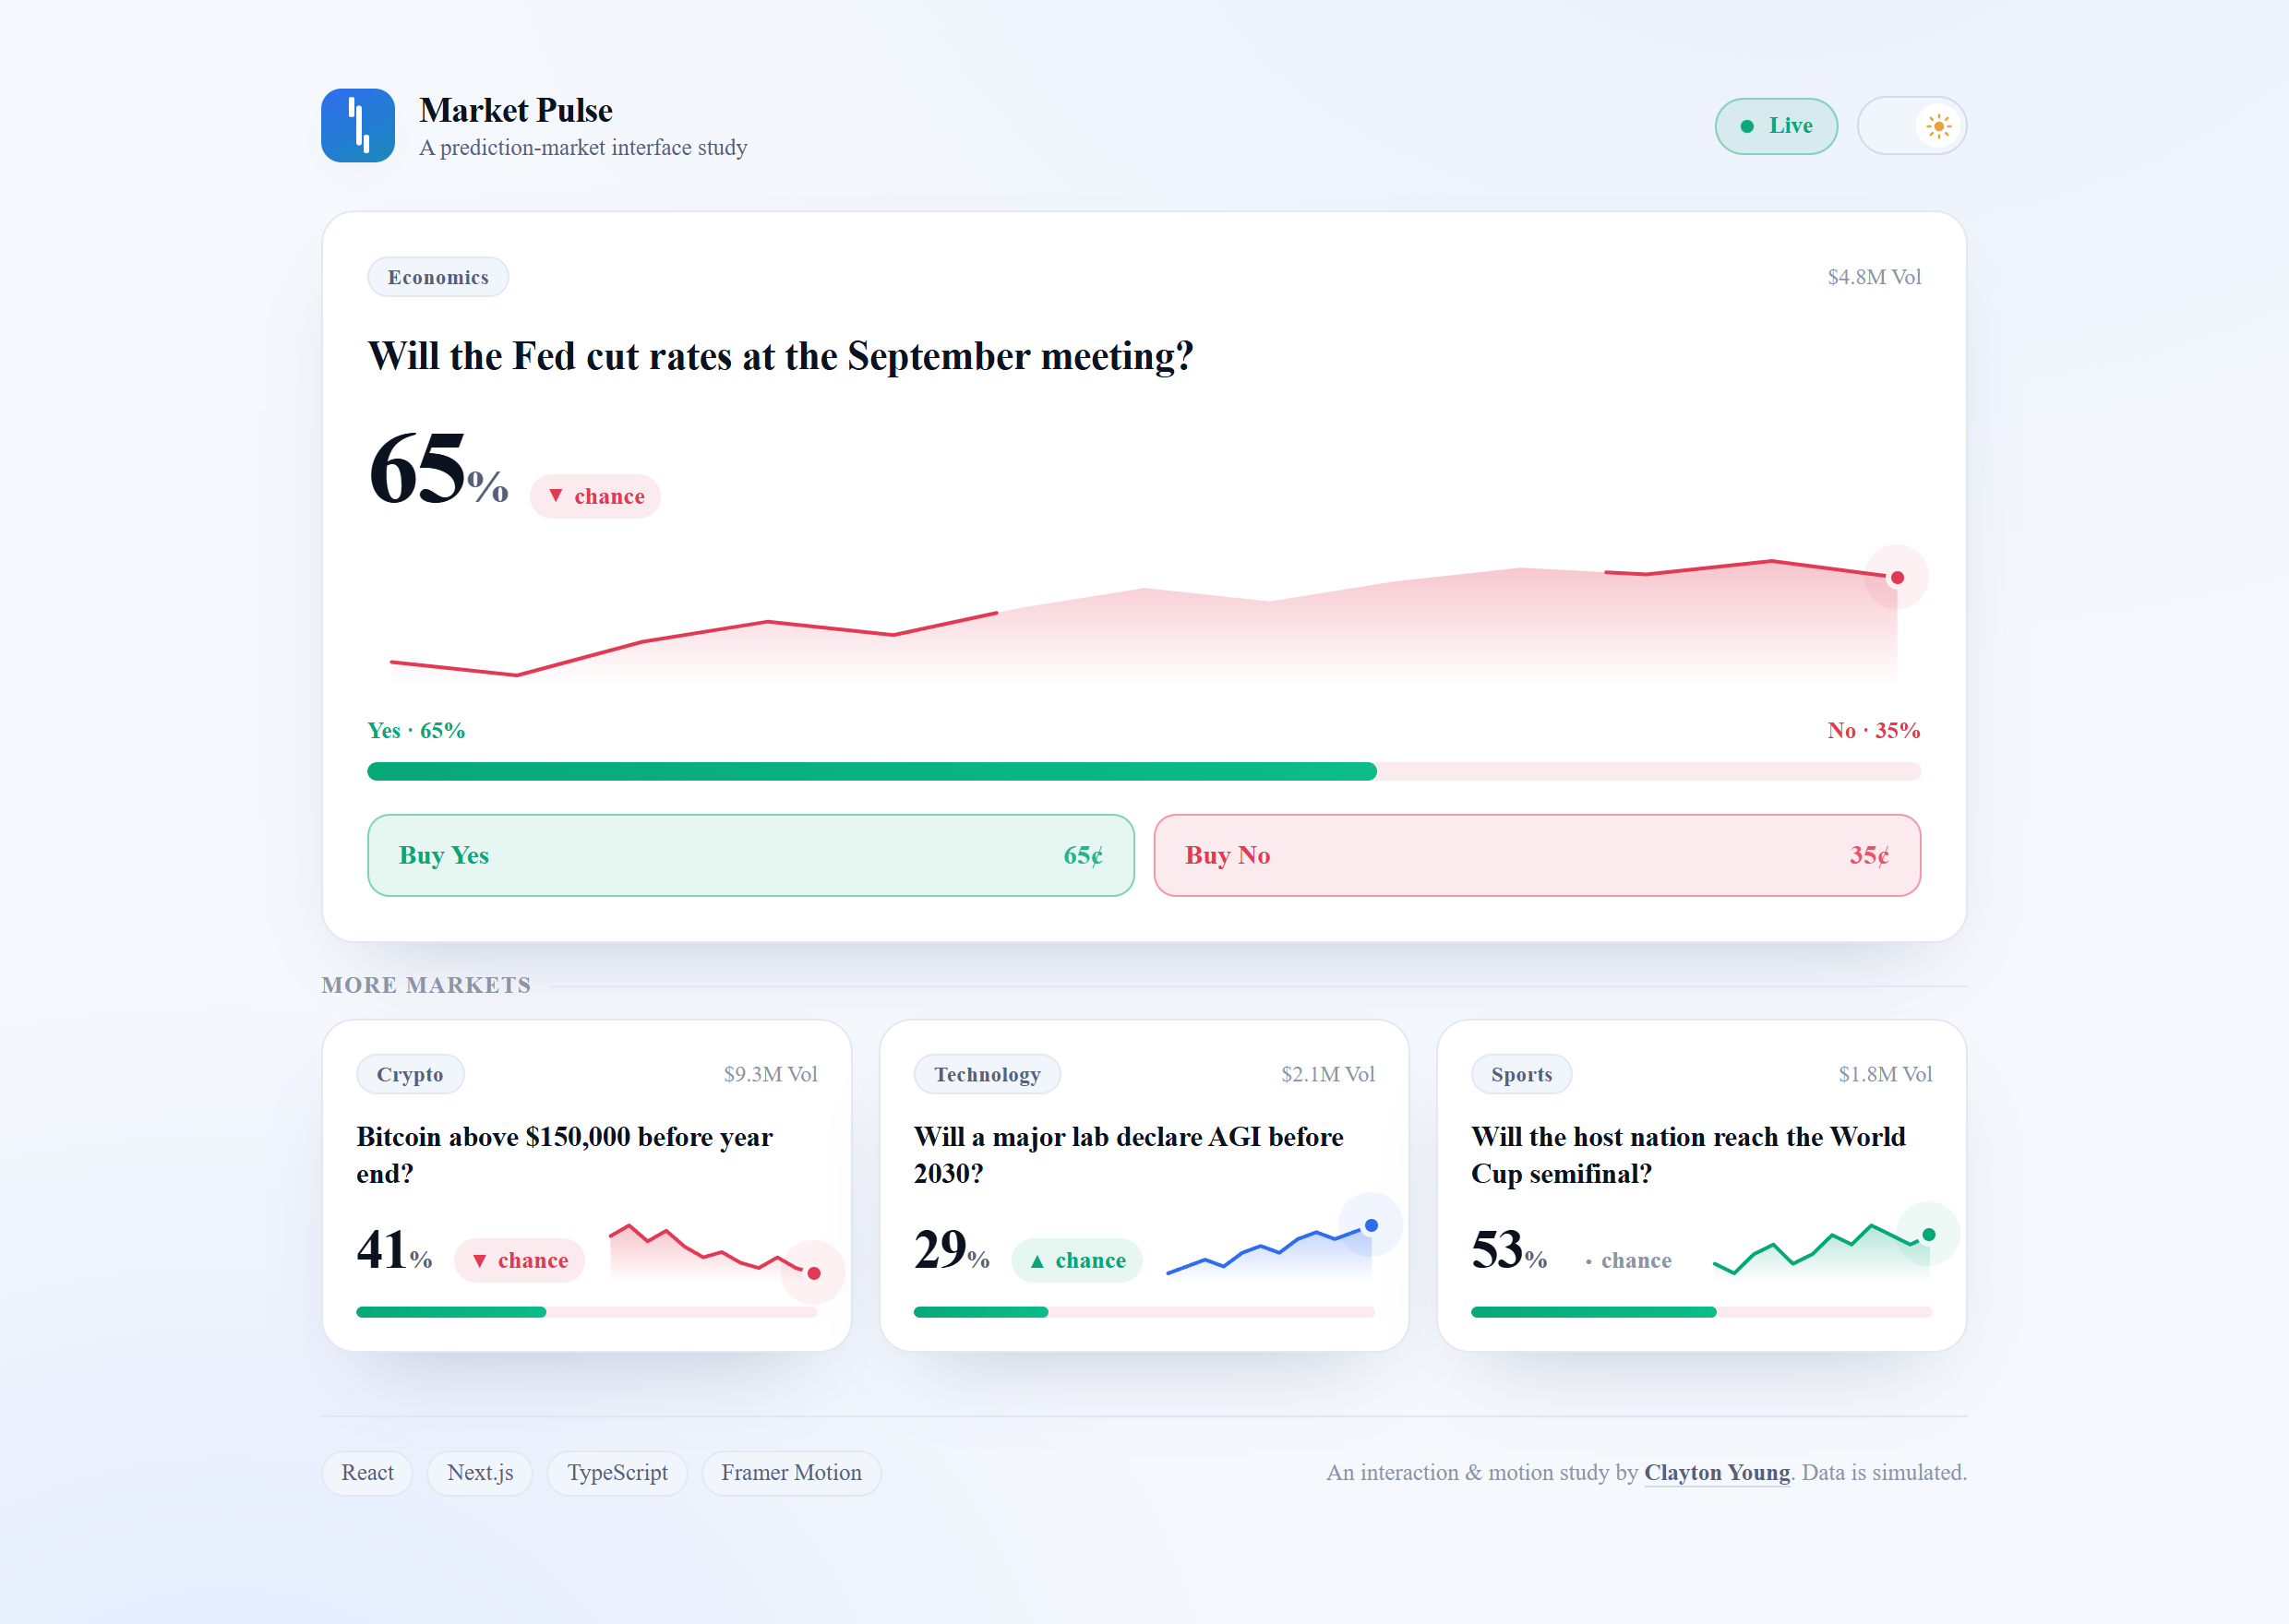
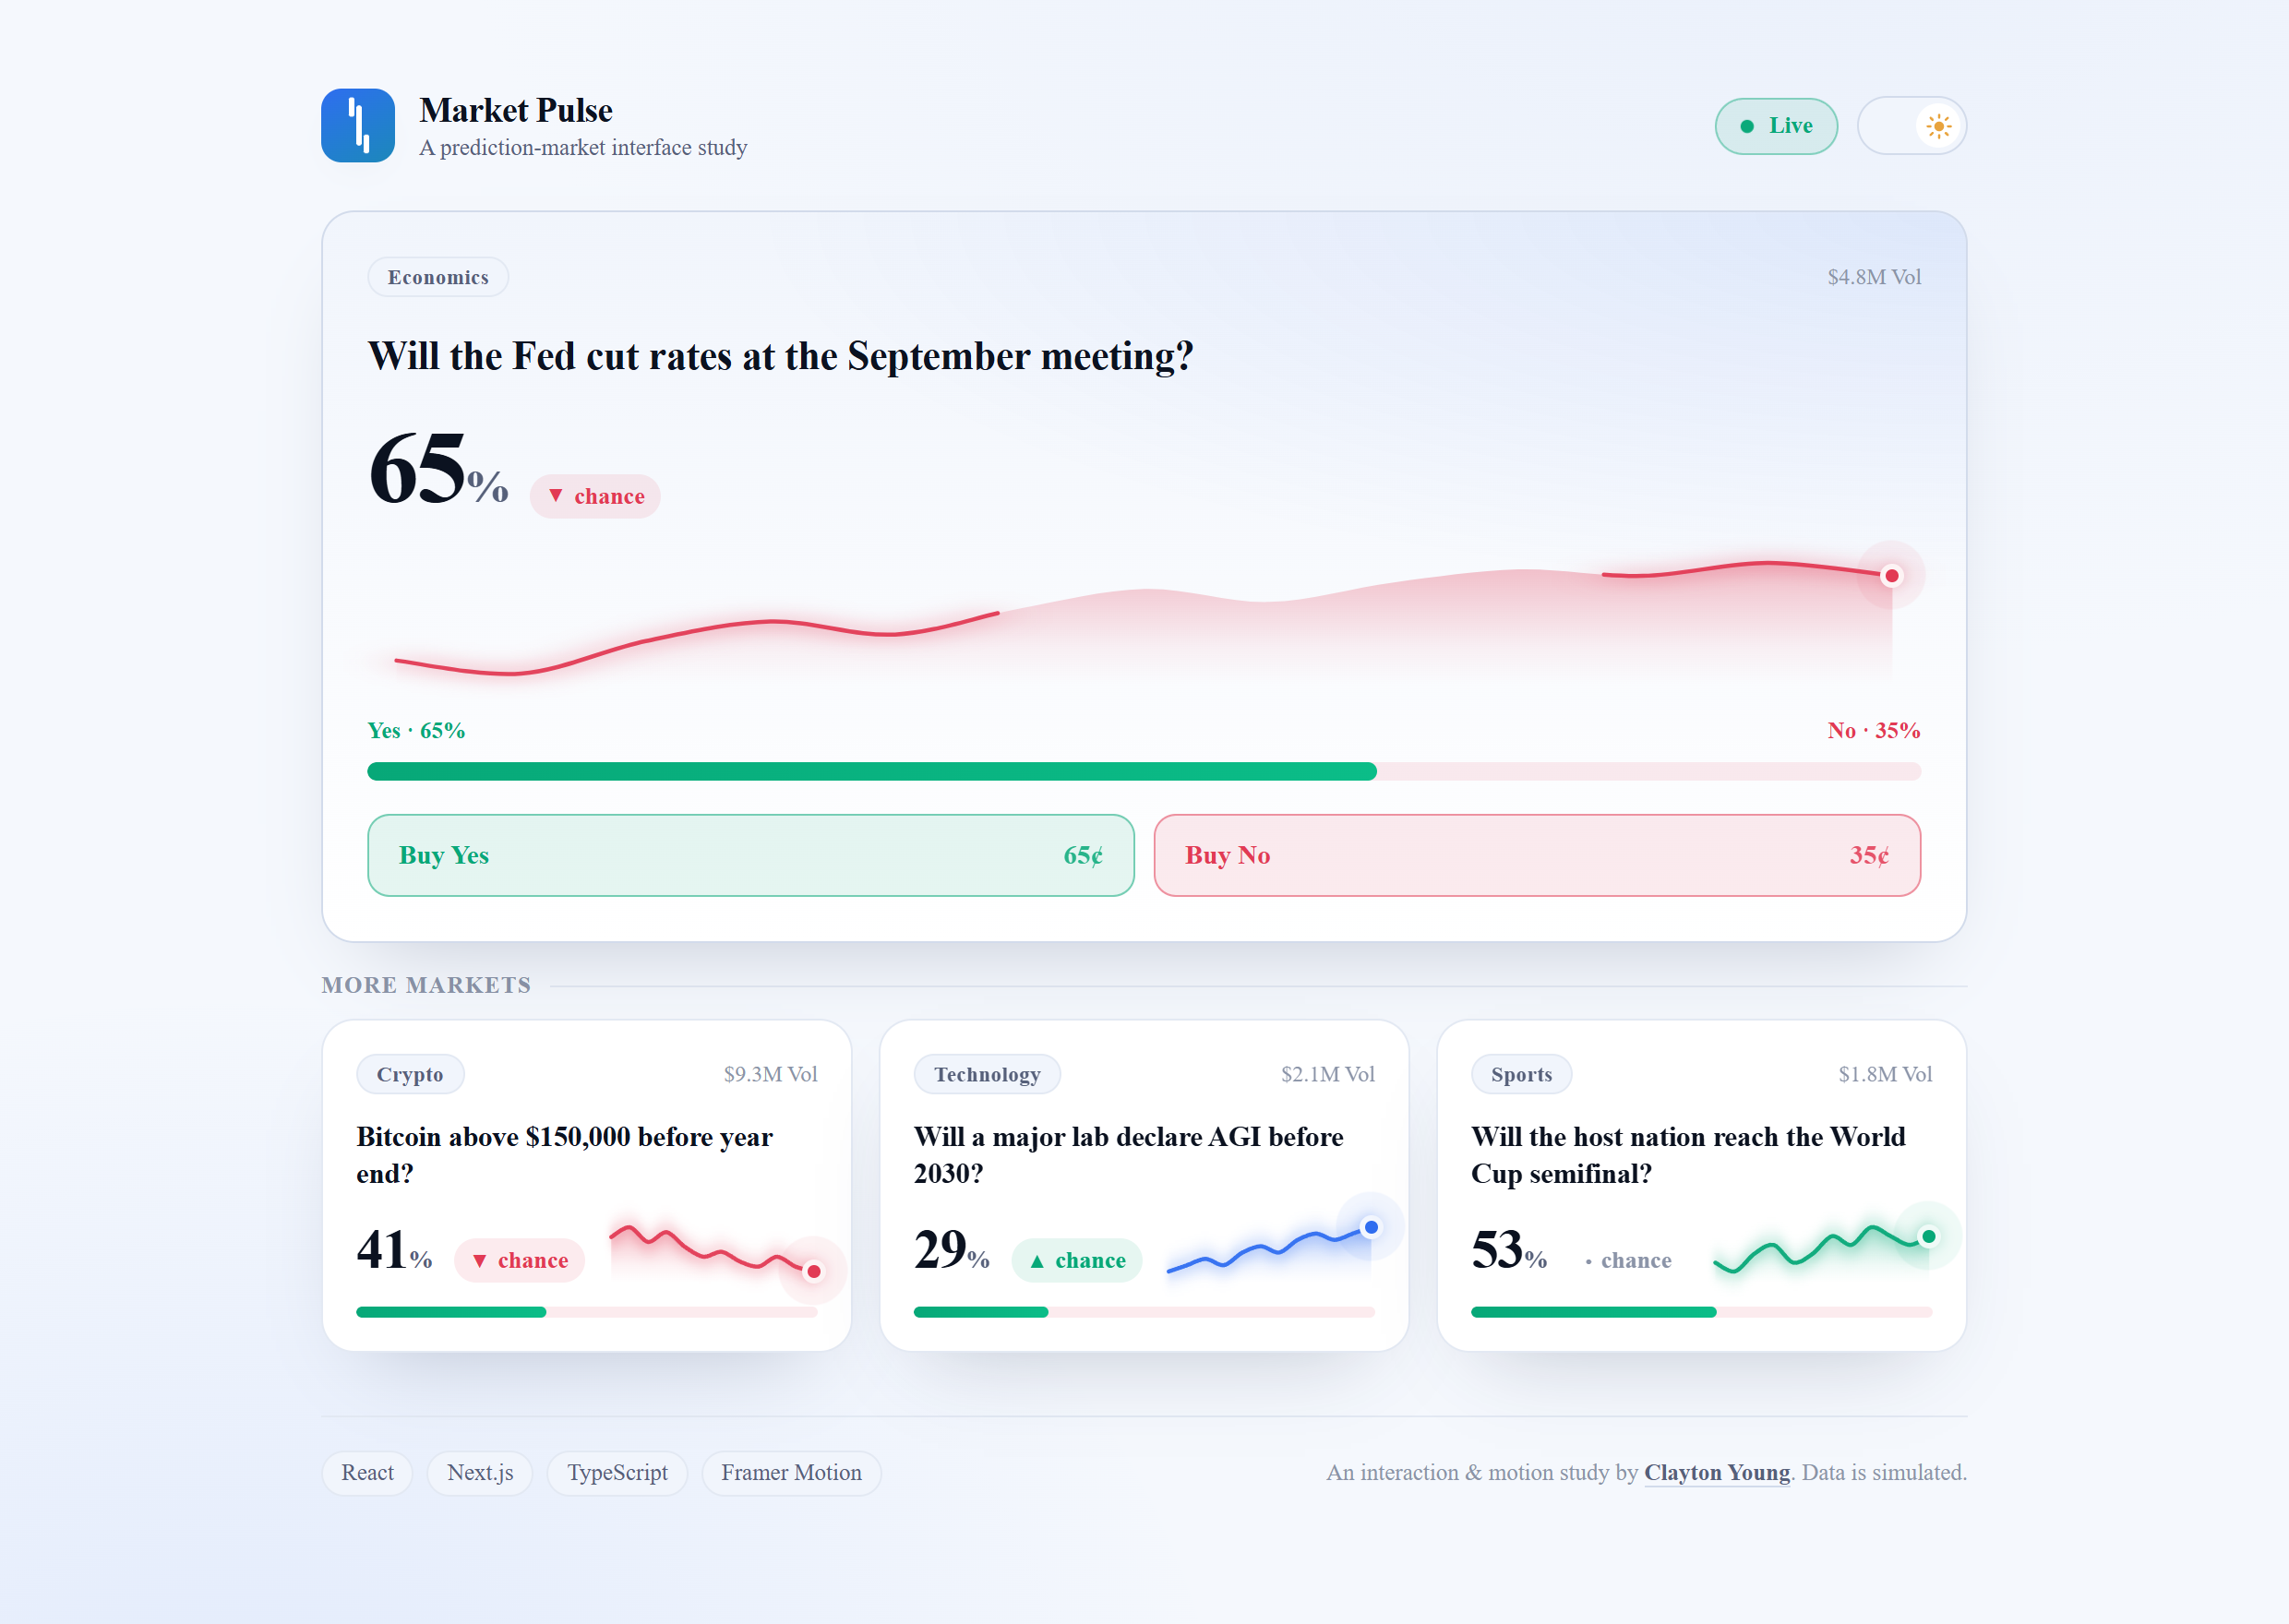
Polish: smooth glowing sparkline + fix live-update line truncation; card depth & button glow
- Sparkline: Catmull-Rom smoothing, soft glow, normalized pathLength draw-in
  so the line stays whole as data ticks (fixes mid-chart break)
- Featured card gradient + corner glow + hover elevation
- Buy buttons hover glow

diff --git a/components/Sparkline.tsx b/components/Sparkline.tsx
@@ -4,12 +4,27 @@ import { useId } from "react";
 import { motion, useReducedMotion } from "framer-motion";
 import { ease } from "@/lib/motion";
 
-/**
- * Lightweight SVG sparkline. The line draws itself in on mount (pathLength)
- * and the area fades up beneath it. The live "pulse" dot is an HTML overlay
- * positioned by percentage so it stays a perfect circle even though the SVG
- * is stretched to full width (vector-effect keeps the stroke crisp too).
- */
+type Pt = readonly [number, number];
+
+/** Catmull-Rom → cubic bézier: a smooth curve through every point, no overshoot
+ *  worth worrying about for 0–1 data. Much prettier than a jagged polyline. */
+function smooth(pts: Pt[]): string {
+  if (pts.length < 2) return pts.length ? `M${pts[0][0]} ${pts[0][1]}` : "";
+  const d = [`M${pts[0][0].toFixed(2)} ${pts[0][1].toFixed(2)}`];
+  for (let i = 0; i < pts.length - 1; i++) {
+    const p0 = pts[i - 1] || pts[i];
+    const p1 = pts[i];
+    const p2 = pts[i + 1];
+    const p3 = pts[i + 2] || p2;
+    const c1x = p1[0] + (p2[0] - p0[0]) / 6;
+    const c1y = p1[1] + (p2[1] - p0[1]) / 6;
+    const c2x = p2[0] - (p3[0] - p1[0]) / 6;
+    const c2y = p2[1] - (p3[1] - p1[1]) / 6;
+    d.push(`C${c1x.toFixed(2)} ${c1y.toFixed(2)} ${c2x.toFixed(2)} ${c2y.toFixed(2)} ${p2[0].toFixed(2)} ${p2[1].toFixed(2)}`);
+  }
+  return d.join(" ");
+}
+
 export function Sparkline({
   data,
   color,
@@ -22,18 +37,18 @@ export function Sparkline({
   const reduce = useReducedMotion();
   const gid = useId().replace(/:/g, "");
   const w = 320;
-  const pad = 5;
+  const pad = 6;
   const min = Math.min(...data);
   const max = Math.max(...data);
   const range = max - min || 1;
 
-  const pts = data.map((v, i) => {
+  const pts: Pt[] = data.map((v, i) => {
     const x = pad + (i / (data.length - 1)) * (w - 2 * pad);
     const y = pad + (1 - (v - min) / range) * (height - 2 * pad);
     return [x, y] as const;
   });
 
-  const line = pts.map((p, i) => `${i ? "L" : "M"}${p[0].toFixed(2)} ${p[1].toFixed(2)}`).join(" ");
+  const line = smooth(pts);
   const area = `${line} L${pts[pts.length - 1][0].toFixed(2)} ${height} L${pts[0][0].toFixed(2)} ${height} Z`;
   const last = pts[pts.length - 1];
   const dotLeft = (last[0] / w) * 100;
@@ -51,7 +66,8 @@ export function Sparkline({
       >
         <defs>
           <linearGradient id={`fill-${gid}`} x1="0" y1="0" x2="0" y2="1">
-            <stop offset="0%" stopColor={color} stopOpacity={0.3} />
+            <stop offset="0%" stopColor={color} stopOpacity={0.32} />
+            <stop offset="70%" stopColor={color} stopOpacity={0.06} />
             <stop offset="100%" stopColor={color} stopOpacity={0} />
           </linearGradient>
         </defs>
@@ -63,17 +79,19 @@ export function Sparkline({
           animate={{ opacity: 1 }}
           transition={{ duration: 0.7, ease: ease.out }}
         />
-        <motion.path
+        {/* pathLength=1 normalizes the dash space, so the CSS draw-in runs once on
+            mount and the full line stays rendered no matter how the data ticks. */}
+        <path
+          className="mp-spark-line"
           d={line}
+          pathLength={1}
           fill="none"
           stroke={color}
-          strokeWidth={2}
+          strokeWidth={2.25}
           strokeLinecap="round"
           strokeLinejoin="round"
           vectorEffect="non-scaling-stroke"
-          initial={reduce ? false : { pathLength: 0 }}
-          animate={{ pathLength: 1 }}
-          transition={{ duration: 0.9, ease: ease.out }}
+          style={{ filter: `drop-shadow(0 0 5px ${color})`, opacity: 0.95 }}
         />
       </svg>
 
@@ -89,7 +107,7 @@ export function Sparkline({
       >
         {!reduce && (
           <motion.span
-            animate={{ scale: [1, 2.6, 1], opacity: [0.45, 0, 0.45] }}
+            animate={{ scale: [1, 2.8, 1], opacity: [0.5, 0, 0.5] }}
             transition={{ duration: 2.2, repeat: Infinity, ease: "easeOut" }}
             style={{
               position: "absolute",
@@ -108,7 +126,7 @@ export function Sparkline({
             height: 7,
             borderRadius: "var(--r-pill)",
             background: color,
-            boxShadow: `0 0 0 3px var(--surface)`,
+            boxShadow: `0 0 0 3px var(--surface), 0 0 10px ${color}`,
           }}
         />
       </div>

diff --git a/components/MarketCard.tsx b/components/MarketCard.tsx
@@ -37,14 +37,24 @@ export function MarketCard({ market, featured = false }: { market: Market; featu
         hidden: { opacity: 0, y: 18, scale: 0.985 },
         show: { opacity: 1, y: 0, scale: 1, transition: spring.settle },
       }}
-      whileHover={{ y: -4 }}
+      whileHover={{
+        y: -4,
+        boxShadow: featured
+          ? "0 34px 80px -34px rgba(0,0,0,0.92), inset 0 1px 0 rgba(255,255,255,0.06)"
+          : "0 22px 50px -26px rgba(0,0,0,0.8)",
+      }}
       transition={spring.snappy}
       style={{
-        background: "var(--surface)",
-        border: "1px solid var(--border)",
+        position: "relative",
+        background: featured
+          ? "radial-gradient(135% 95% at 100% 0%, var(--accent-soft), transparent 55%), linear-gradient(180deg, var(--surface-2), var(--surface))"
+          : "var(--surface)",
+        border: featured ? "1px solid var(--border-strong)" : "1px solid var(--border)",
         borderRadius: "var(--r-lg)",
         padding: featured ? 24 : 18,
-        boxShadow: "var(--shadow-card)",
+        boxShadow: featured
+          ? "var(--shadow-card), inset 0 1px 0 rgba(255,255,255,0.05)"
+          : "var(--shadow-card)",
         display: "flex",
         flexDirection: "column",
         gap: featured ? 18 : 13,

diff --git a/app/globals.css b/app/globals.css
@@ -148,6 +148,18 @@ a {
   }
 }
 
+/* Sparkline draw-in. pathLength=1 normalizes the dash space, so this runs once
+   on mount and the full line stays put as the data ticks (no stale-dash gap). */
+@keyframes mp-draw {
+  from { stroke-dashoffset: 1; }
+  to { stroke-dashoffset: 0; }
+}
+.mp-spark-line {
+  stroke-dasharray: 1;
+  stroke-dashoffset: 1;
+  animation: mp-draw 1s var(--ease-out) forwards;
+}
+
 /* Respect users who don't want motion — disable transitions/animations.
    (Components also branch on useReducedMotion for spring-driven values.) */
 @media (prefers-reduced-motion: reduce) {

diff --git a/components/BuyButtons.tsx b/components/BuyButtons.tsx
@@ -22,14 +22,14 @@ export function BuyButtons({ prob }: { prob: number }) {
   return (
     <div style={{ display: "flex", gap: 10 }}>
       <motion.button
-        whileHover={{ y: -2 }}
+        whileHover={{ y: -2, boxShadow: "0 14px 30px -14px var(--yes)" }}
         whileTap={{ scale: 0.97 }}
         transition={spring.snappy}
         style={{
           ...base,
           color: "var(--yes)",
           background: "var(--yes-soft)",
-          border: "1px solid color-mix(in srgb, var(--yes) 45%, transparent)",
+          border: "1px solid color-mix(in srgb, var(--yes) 50%, transparent)",
         }}
       >
         <span>Buy Yes</span>
@@ -37,14 +37,14 @@ export function BuyButtons({ prob }: { prob: number }) {
       </motion.button>
 
       <motion.button
-        whileHover={{ y: -2 }}
+        whileHover={{ y: -2, boxShadow: "0 14px 30px -14px var(--no)" }}
         whileTap={{ scale: 0.97 }}
         transition={spring.snappy}
         style={{
           ...base,
           color: "var(--no)",
           background: "var(--no-soft)",
-          border: "1px solid color-mix(in srgb, var(--no) 45%, transparent)",
+          border: "1px solid color-mix(in srgb, var(--no) 50%, transparent)",
         }}
       >
         <span>Buy No</span>